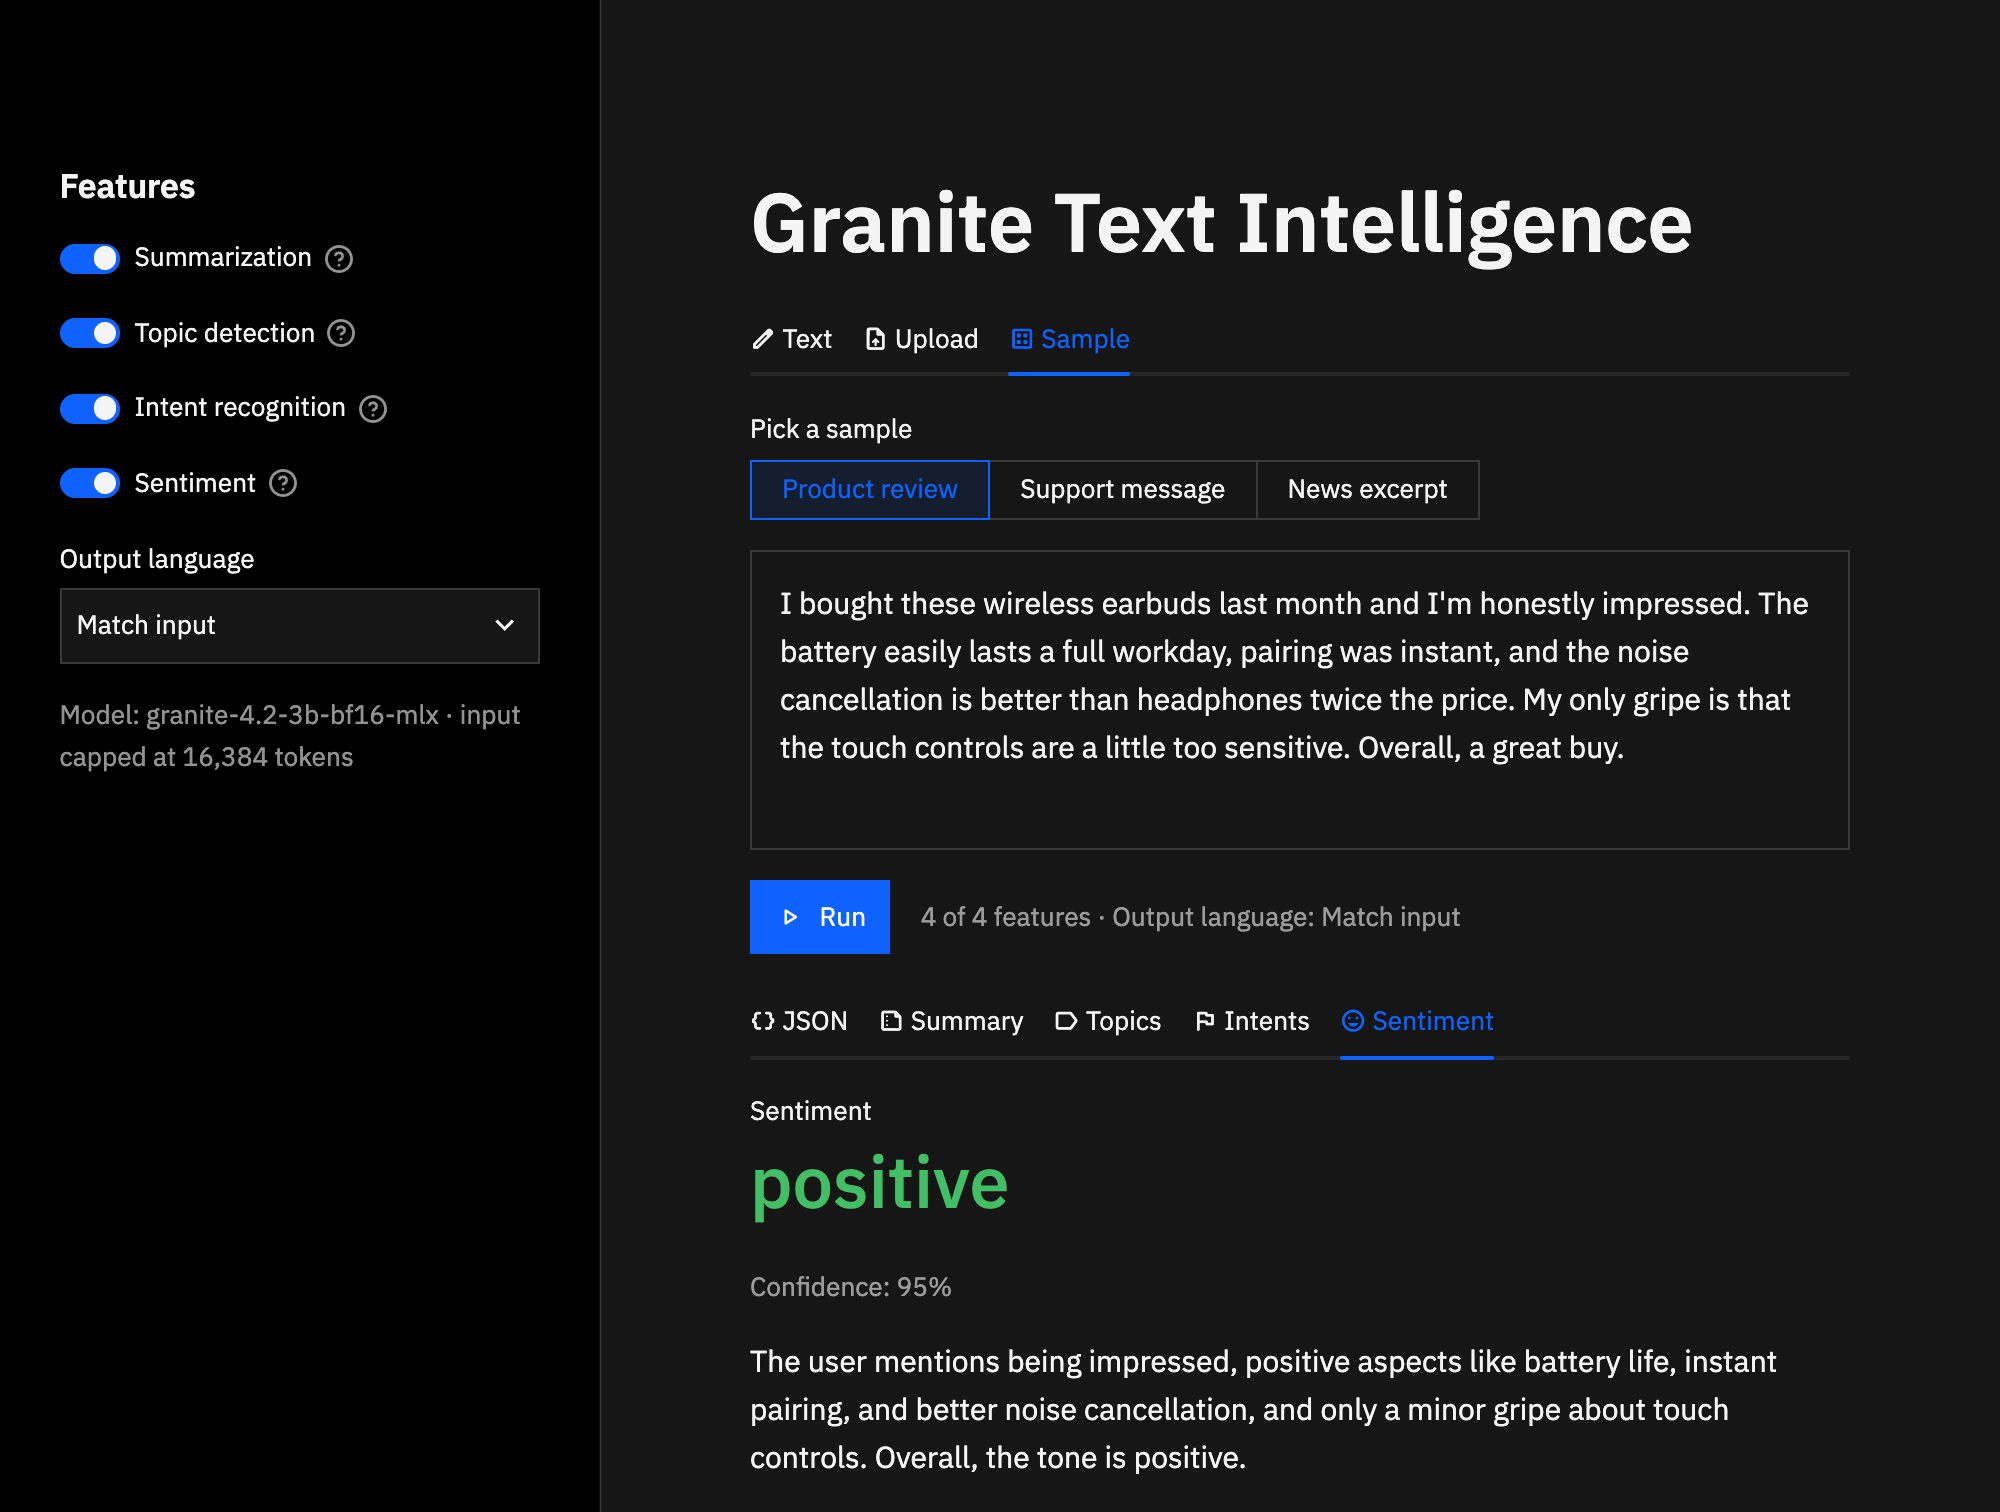
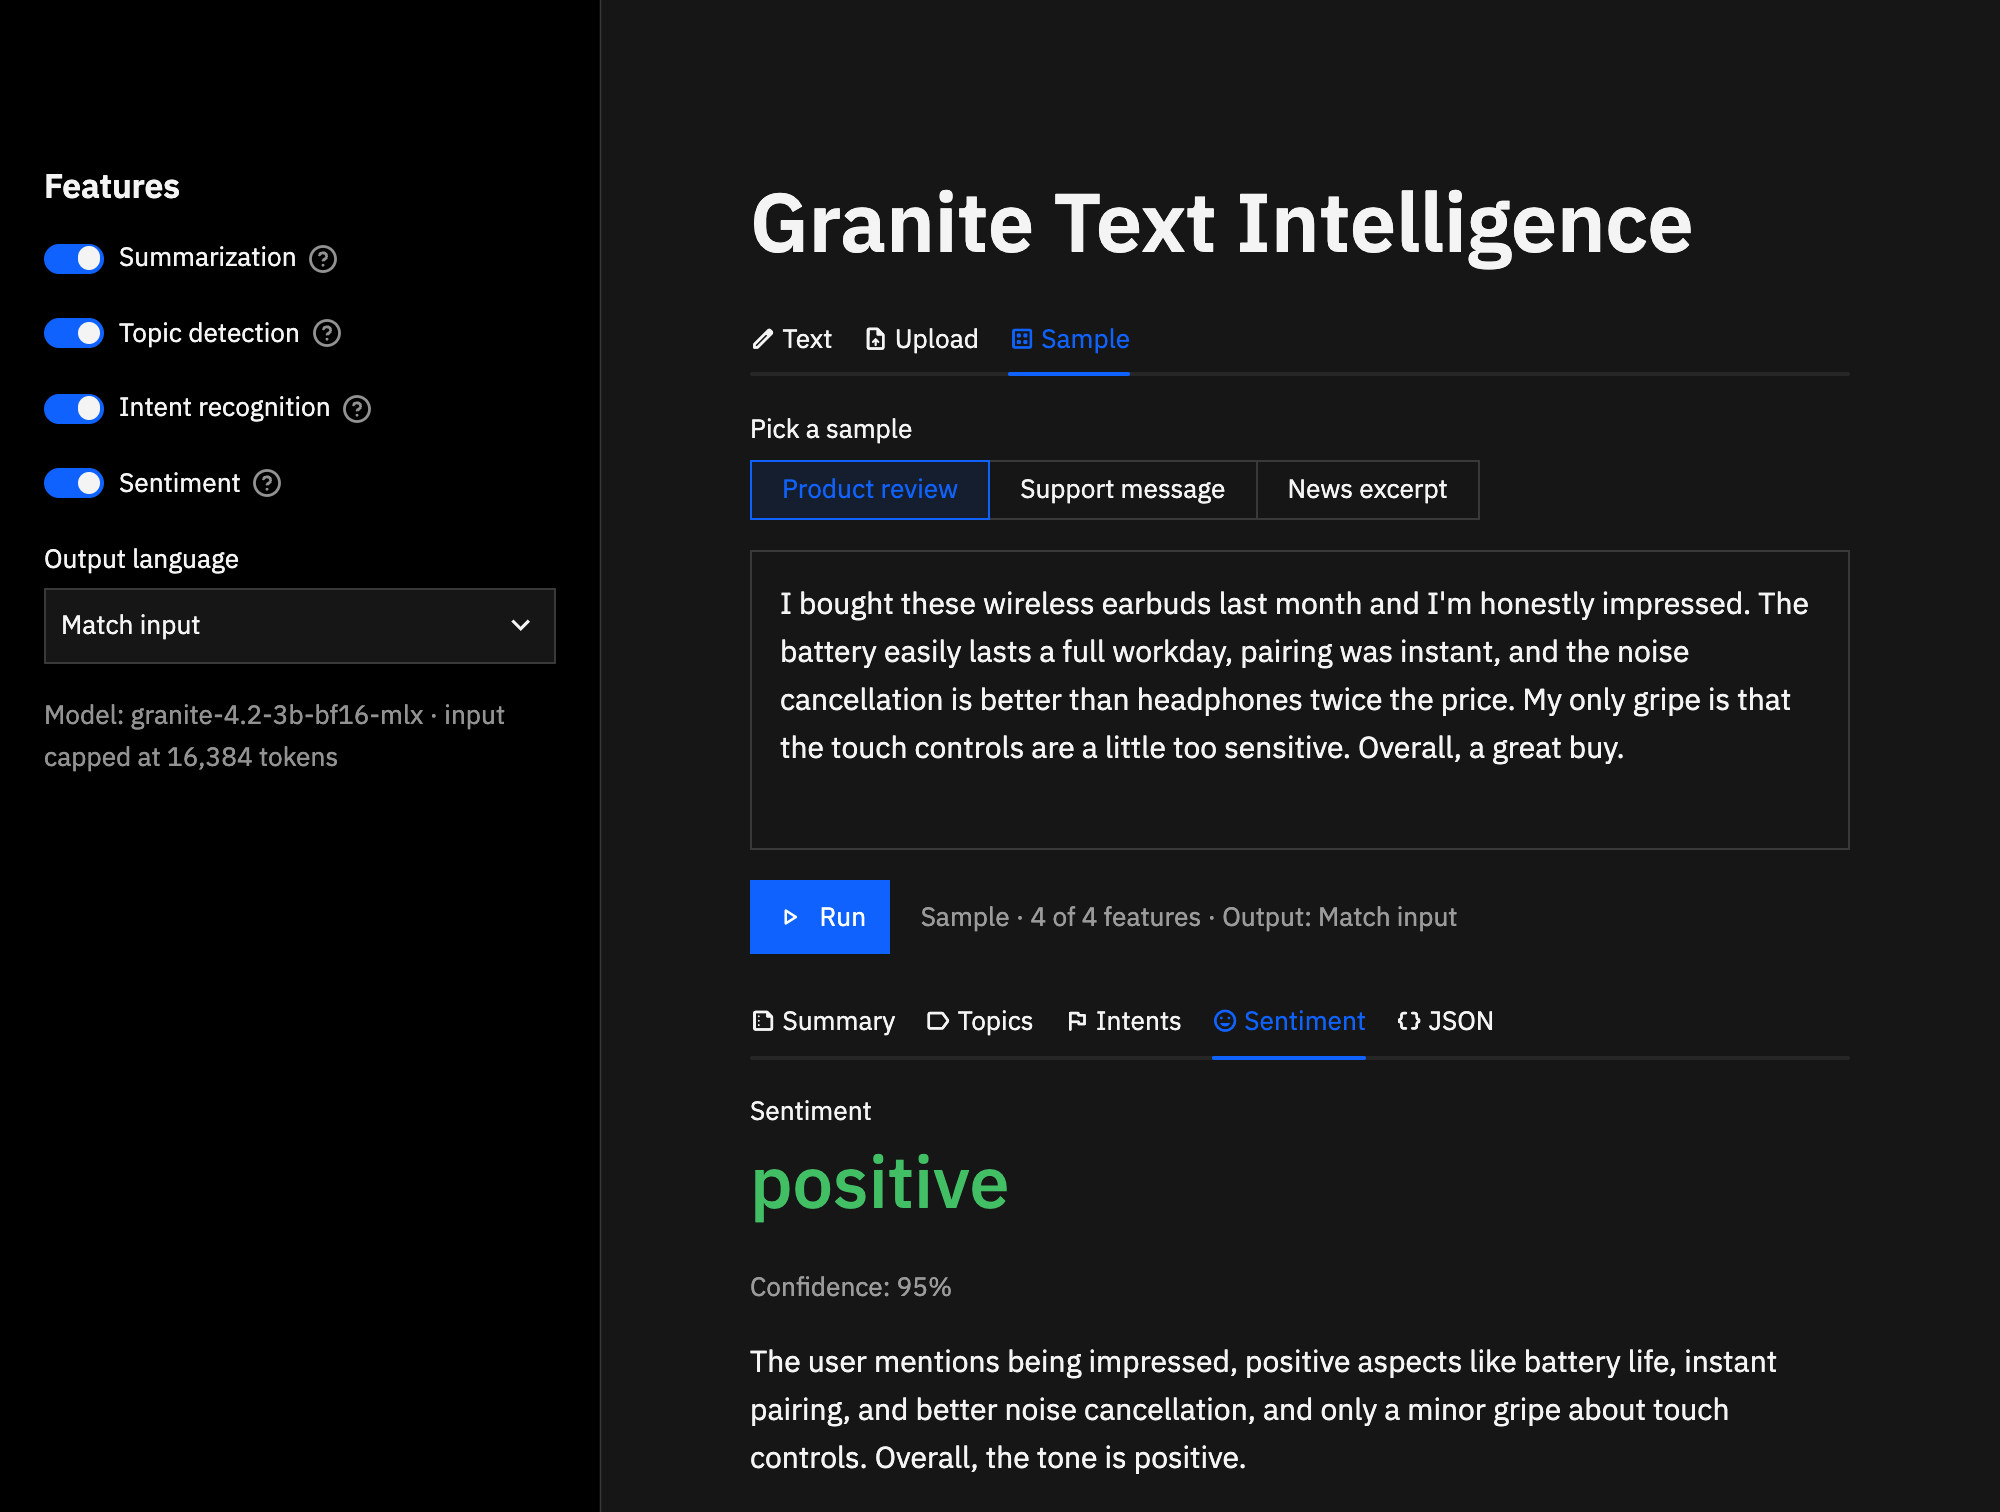
docs: recapture the screenshot
The README image predated two changes on this branch: the Run caption now
names the input a click analyzes ("Sample · 4 of 4 features · Output:
Match input"), and the result tabs open on Summary with JSON moved last.
Recaptured per CLAUDE.md's recipe (headless Chrome over CDP, 1000 CSS px x
DPR 2, the embed URL on 127.0.0.1, Sample -> Product review -> Run ->
Sentiment, height measured from the block container plus its
padding-bottom) from a real run of the bf16 model with HF_HUB_OFFLINE=1.

Still 2000 x 1512 px, and the alt text still holds: positive, 95%, with the
same rationale as before. A pixel diff against the previous capture finds
the main area changed only in the caption and the tab strip; the rationale,
now rendered by st.text rather than Markdown, is identical. The sidebar
content sits 8 px further left, which comes from the capturing browser's
scrollbar width (Streamlit sizes the sidebar inset from it), not from the
app; CLAUDE.md records that so a later recapture does not chase it. It
also said "Four details" above a list of five.

diff --git a/CLAUDE.md b/CLAUDE.md
@@ -95,11 +95,11 @@ Conventional Commits — `feat:`, `fix:`, `docs:`, `chore:`, `test:`, `refactor:
 
 `LICENSE` — Apache-2.0 for the project's **code**, declared to tooling in `pyproject.toml` via PEP 639 SPDX fields (`license`, `license-files`) and summarized in the README. The IBM Granite model is licensed separately (also Apache 2.0) and downloaded at runtime, not vendored here. The **IBM Plex** font files under `static/fonts/` *are* vendored and carry their own license — SIL OFL 1.1, whose terms require the notice to travel with the files, hence `static/fonts/LICENSE.txt`. The Material Symbols favicon under `static/icons/` is vendored too, under Apache-2.0 like the project itself. Both notices are entries in `license-files`, and both are named in the README's License section.
 
-`README.md`, `docs/images/` — the user-facing README restates facts this file also carries (the model id and its weight sizes, the `granite-4.2-3b-q4-mlx` / `-q8-mlx` fallbacks for smaller machines and the `-8b-*` swaps for larger ones, the ~16 GB unified-memory envelope, the ~80 KB/token KV figure, the input precedence, all 12 language names) and embeds `screenshot-dark.png`, whose alt text pins a specific UI state. **No test guards any of it**, so a change to the model, the language list or the layout has to be mirrored there by hand, and a theme or layout change dates the screenshot. A `screenshot-light.png` shipped beside it until 2026-08-14, when removing the IBM Carbon theme dated both; the dark one was re-captured under the built-in dark theme and the light one was dropped rather than re-shot, so the README now carries a single image. It was re-captured again on 2026-08-15, when `layout="wide"` and the preview containers dated the previous one; the geometry moved with it, from 792 CSS px to **1000**. A **model change dates it too**, because the rationale in the image is model output: the 2026-09-21 swap to granite-4.2-3b left the alt text true (still `positive` / 0.95 under greedy decoding) but changed the pictured rationale, so it was re-captured a third time on 4.2 (2000 × 1572 px; the 4.2 rationale is shorter). The **sidebar layout** dated it a fourth time the same day, and it was re-captured with the sidebar in frame (2000 × 1588 px — the stacked main area is taller than the old columns, the rationale is unchanged). Restoring the **IBM Carbon theme** dated it a fifth time on 2026-09-22: re-captured at 2000 × **1512** px (the 15 px root makes the same content shorter), again from a real model run, with the alt text still true — `positive`, 0.95, and byte-for-byte the same rationale. The README's feature list names the theme, so a theme change edits that line too.
+`README.md`, `docs/images/` — the user-facing README restates facts this file also carries (the model id and its weight sizes, the `granite-4.2-3b-q4-mlx` / `-q8-mlx` fallbacks for smaller machines and the `-8b-*` swaps for larger ones, the ~16 GB unified-memory envelope, the ~80 KB/token KV figure, the input precedence, all 12 language names) and embeds `screenshot-dark.png`, whose alt text pins a specific UI state. **No test guards any of it**, so a change to the model, the language list or the layout has to be mirrored there by hand, and a theme or layout change dates the screenshot. A `screenshot-light.png` shipped beside it until 2026-08-14, when removing the IBM Carbon theme dated both; the dark one was re-captured under the built-in dark theme and the light one was dropped rather than re-shot, so the README now carries a single image. It was re-captured again on 2026-08-15, when `layout="wide"` and the preview containers dated the previous one; the geometry moved with it, from 792 CSS px to **1000**. A **model change dates it too**, because the rationale in the image is model output: the 2026-09-21 swap to granite-4.2-3b left the alt text true (still `positive` / 0.95 under greedy decoding) but changed the pictured rationale, so it was re-captured a third time on 4.2 (2000 × 1572 px; the 4.2 rationale is shorter). The **sidebar layout** dated it a fourth time the same day, and it was re-captured with the sidebar in frame (2000 × 1588 px — the stacked main area is taller than the old columns, the rationale is unchanged). Restoring the **IBM Carbon theme** dated it a fifth time on 2026-09-22: re-captured at 2000 × **1512** px (the 15 px root makes the same content shorter), again from a real model run, with the alt text still true — `positive`, 0.95, and byte-for-byte the same rationale. The README's feature list names the theme, so a theme change edits that line too. A sixth recapture followed the same day, once the Run caption began naming its input (`Sample · 4 of 4 features · Output: Match input`) and the result tabs moved JSON last: again 2000 × 1512 px from a real model run, the alt text still true, and against the fifth capture the main area differs **only** in the caption and the tab strip — the rationale, now rendered by `st.text` rather than Markdown, is pixel-identical. The sidebar's content did move 8 px left, which is the capturing browser, not the app: Streamlit insets it by the measured scrollbar width plus `max(width, 1.25rem − width)`, this headless Chrome's scrollbars measure 11 px (an inset of 22 CSS px), and the fifth capture's 30 implies 15 — so a recapture need not chase that shift.
 
 To reproduce it — or to add a light counterpart back — drive a headless Chrome over CDP rather than resizing a window (Chrome refuses to resize a maximized window, and a DPR-1 display cannot produce a 2× capture any other way). Set `Emulation.setDeviceMetricsOverride` to **1000 CSS px × `deviceScaleFactor` 2** (= its 2000 px), load `http://127.0.0.1:<port>/?embed=true&embed_options=dark_theme,show_padding` (the address the server listens on and prints — see `server.address` below; `localhost` works too, but only while no other app holds the same port) — that one URL selects the dark theme *and* hides the toolbar while keeping normal padding, and it **keeps the sidebar expanded** at 1000 px (`aria-expanded="true"`, 300 px; verified 2026-09-21), so the settings appear in frame without an extra click. `dark_theme` still resolves to the **custom** `[theme.dark]` once one ships — re-verified 2026-09-22, app background `rgb(22, 22, 22)` and the black sidebar rail. Its `light_theme` counterpart, however, did **not** switch a loaded page in testing; use CDP's `Emulation.setEmulatedMedia` with `prefers-color-scheme` if a light capture is ever needed — then click through Sample → Product review → Run → the Sentiment tab. Greedy decoding makes this reproducible: the Product review sample returns `confidence: 0.95` and the same rationale every time, which is what keeps the README's alt text true.
 
-Four details are load-bearing, and each one cost a failed run:
+Five details are load-bearing, and each one cost a failed run:
 
 - **The width is now an aesthetic choice, not a floor.** It was a floor while the columns were an even split — the result-tab strip clipped below ~930 CSS px, which the old 792 recipe did not clear even under `layout="wide"`. The 2:3 split removed that threshold and the full-width panel keeps it removed with the sidebar open (see Architecture): at 1000 px the sidebar takes 300 and the content gets 550, the title still fits on one line, and the strip has 178 px to spare (re-measured under the theme on 2026-09-22; 540 and 163 before its 15 px root), so 1000 is kept for the framing rather than because anything breaks below it.
 - **The height cannot come from `document.scrollHeight`.** Streamlit scrolls an inner container, so the document stays exactly viewport-tall and reports back whatever height you asked for — a full-page capture silently returns just the visible window, and a too-tall viewport returns acres of dead space. Measure the lowest `getBoundingClientRect().bottom` among `[data-testid="stMainBlockContainer"]`'s children, then re-apply the override at that height. The sidebar is shorter than the main area (its content ends ~410 px down), so it never sets the height.
